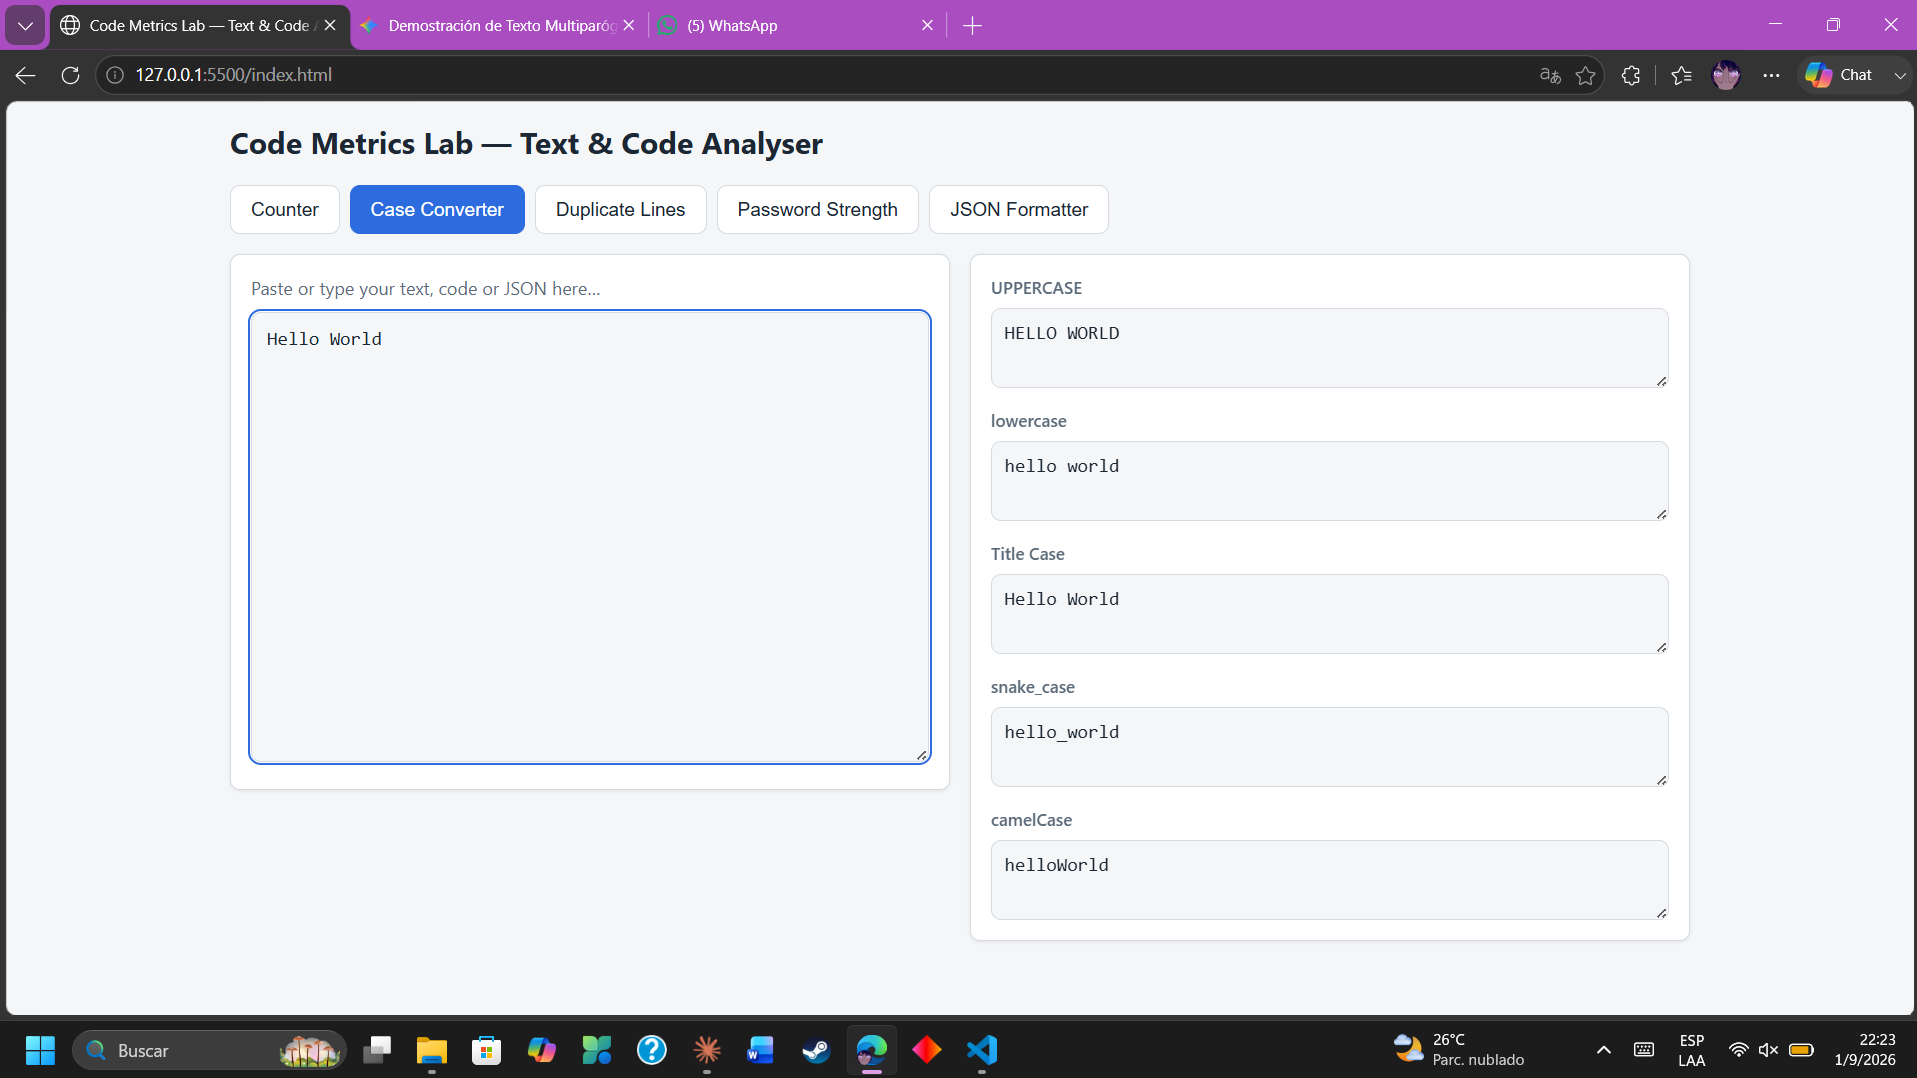
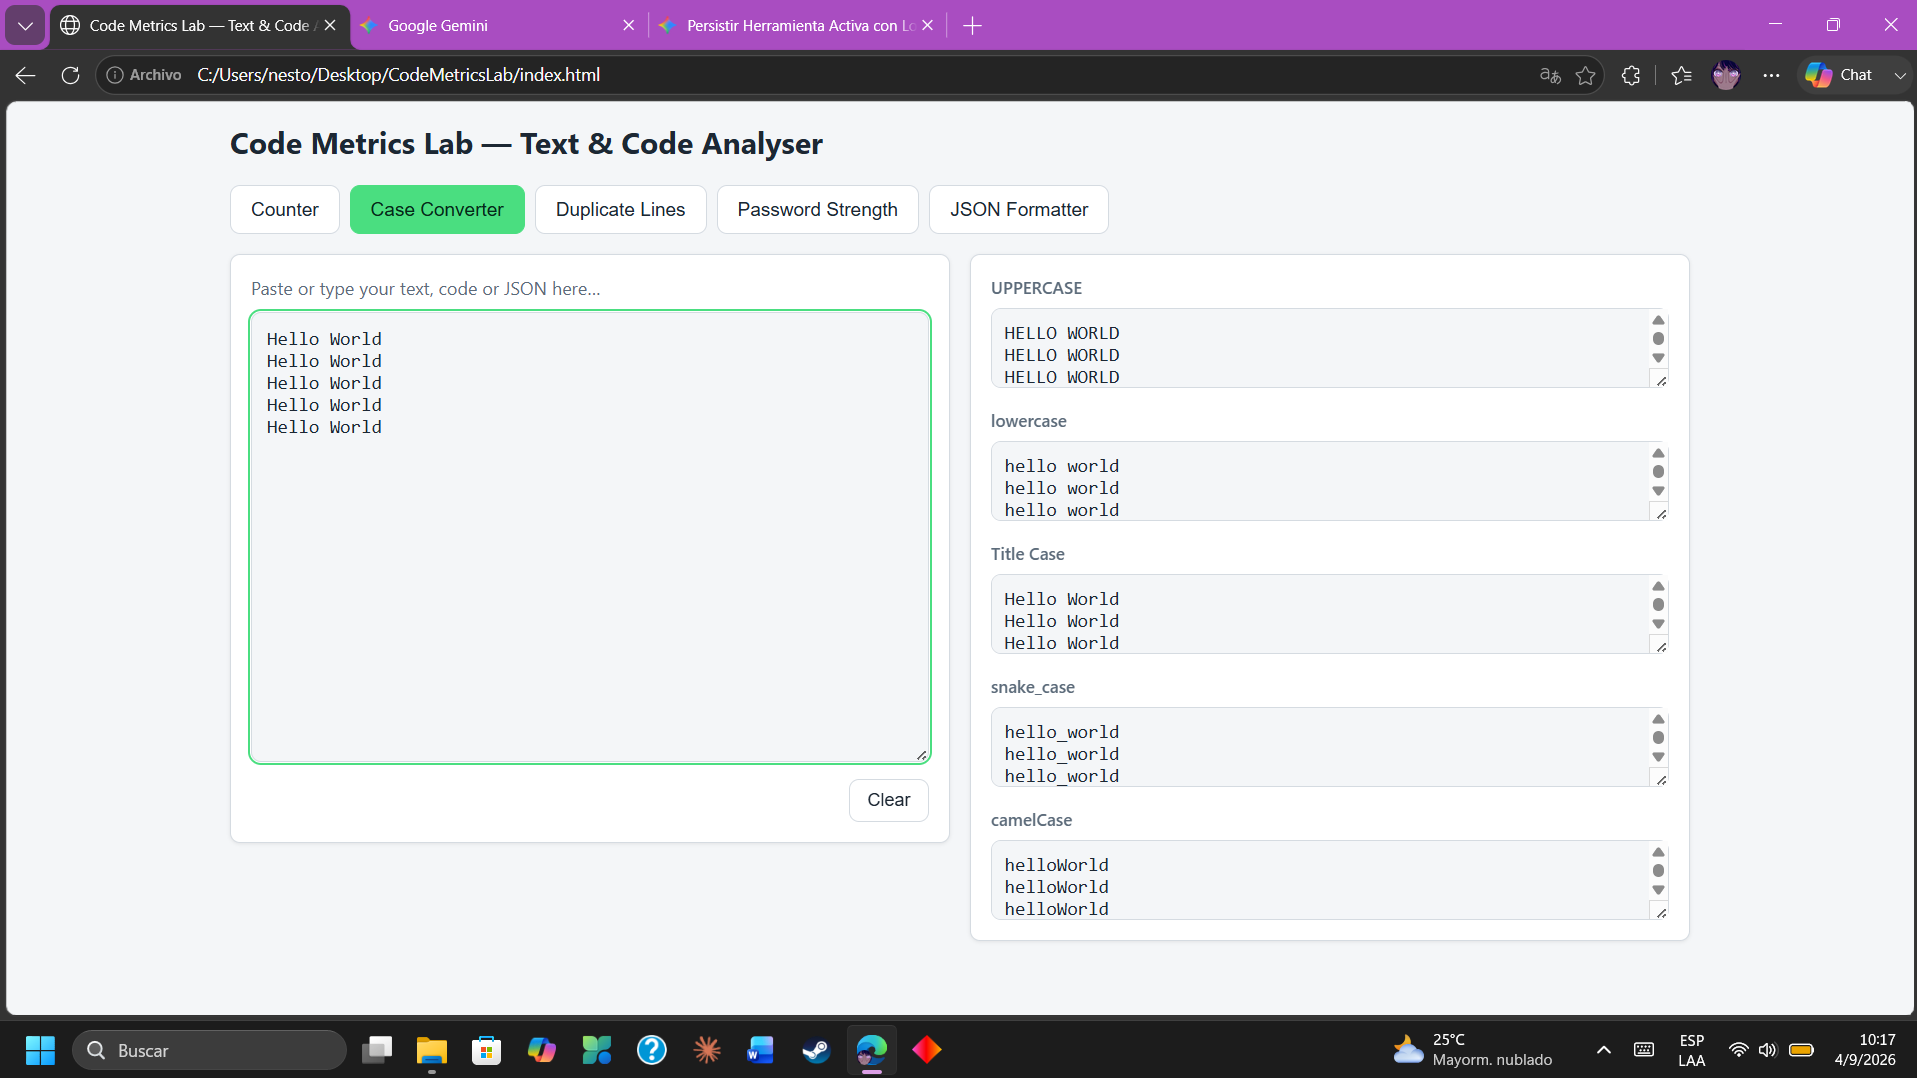
Add localStorage persistence and Clear button; update accent color, README and evidence screenshots

diff --git a/js/app.js b/js/app.js
@@ -7,14 +7,76 @@
 
 const { createApp } = Vue;
 
+// localStorage keys for the "keep the last text" stretch feature.
+const STORAGE_KEYS = {
+  sourceText: 'codeMetricsLab.sourceText',
+  activeTool: 'codeMetricsLab.activeTool'
+};
+
+// The tools a restored activeTool value is allowed to be, so corrupt or
+// stale storage can never leave the app on an unknown tool.
+const VALID_TOOLS = ['counter', 'case', 'duplicates', 'password', 'json'];
+
+// WHY: storage can be disabled (private mode), blocked, or full. Every access
+// is wrapped so a failure only skips persistence — the app keeps working from
+// memory and the in-memory data is never lost because a save/read failed.
+function safeStorageRead(key) {
+  try {
+    return localStorage.getItem(key);
+  } catch (error) {
+    console.warn('Code Metrics Lab: localStorage read skipped.', error);
+    return null;
+  }
+}
+
+function safeStorageWrite(key, value) {
+  try {
+    localStorage.setItem(key, value);
+  } catch (error) {
+    console.warn('Code Metrics Lab: localStorage write skipped.', error);
+  }
+}
+
+function safeStorageRemove(key) {
+  try {
+    localStorage.removeItem(key);
+  } catch (error) {
+    console.warn('Code Metrics Lab: localStorage remove skipped.', error);
+  }
+}
+
 createApp({
   data() {
+    // Restore from storage on load; fall back to defaults if nothing is
+    // saved or storage is unavailable.
+    const savedText = safeStorageRead(STORAGE_KEYS.sourceText);
+    const savedTool = safeStorageRead(STORAGE_KEYS.activeTool);
     return {
       // The single source of truth: everything derives from this in memory.
-      // No database — state lives only in the browser session.
-      sourceText: '',
-      activeTool: 'counter'
+      // localStorage only mirrors it; memory always wins.
+      sourceText: savedText !== null ? savedText : '',
+      activeTool: VALID_TOOLS.includes(savedTool) ? savedTool : 'counter',
+      // Holds the pending debounced-save timer id (not used for rendering).
+      saveTimer: null
     };
+  },
+  watch: {
+    // Debounce the text save by ~300ms so we don't write on every keystroke.
+    // An empty box removes the key instead of storing an empty string.
+    sourceText(value) {
+      clearTimeout(this.saveTimer);
+      this.saveTimer = setTimeout(() => {
+        if (value === '') {
+          safeStorageRemove(STORAGE_KEYS.sourceText);
+        } else {
+          safeStorageWrite(STORAGE_KEYS.sourceText, value);
+        }
+      }, 300);
+    },
+    // The active tool changes rarely, so persist it immediately.
+    activeTool(value) {
+      safeStorageWrite(STORAGE_KEYS.activeTool, value);
+    }
   },
   computed: {
     // WHY: several tools share this "is there anything to analyse?" test,
@@ -178,6 +240,14 @@ createApp({
     }
   },
   methods: {
+    // Empty the editor and drop the saved value. Cancelling the pending
+    // debounced save prevents a stray write from re-storing the old text.
+    clearText() {
+      clearTimeout(this.saveTimer);
+      this.sourceText = '';
+      safeStorageRemove(STORAGE_KEYS.sourceText);
+    },
+
     // WHY: snake_case and camelCase share the exact same tokenisation —
     // trim, split on any run of non-alphanumeric characters (whitespace or
     // punctuation), drop empties, and lowercase each piece.

diff --git a/css/styles.css b/css/styles.css
@@ -1,18 +1,11 @@
-/*
- * Code Metrics Lab — Text & Code Analyser
- * Team: Nestor Deodanes · Samuel Mendoza · Marcela Mata · Daniela Rodriguez
- * Purpose: Layout and palette. Colours live in CSS variables so a future
- *          theme switch only needs to override this single block.
- */
-
 :root {
   --color-bg: #f4f6f8;
   --color-surface: #ffffff;
   --color-border: #d5dbe1;
   --color-text: #1c2733;
   --color-muted: #5c6b7a;
-  --color-accent: #2d6cdf;
-  --color-accent-text: #ffffff;
+  --color-accent: #4ADE80; /* project accent (Day 2 spec): neon green */
+  --color-accent-text: #06281a; /* dark green for legible text on neon green */
   --radius: 8px;
   --gap: 16px;
   --shadow: 0 1px 3px rgba(0, 0, 0, 0.08);
@@ -117,6 +110,27 @@ body {
   outline-offset: 1px;
 }
 
+.editor-actions {
+  display: flex;
+  justify-content: flex-end;
+  margin-top: 8px;
+}
+
+.clear-button {
+  padding: 8px 14px;
+  border: 1px solid var(--color-border);
+  border-radius: var(--radius);
+  background: var(--color-surface);
+  color: var(--color-text);
+  font-size: 0.9rem;
+  cursor: pointer;
+  transition: border-color 0.15s ease;
+}
+
+.clear-button:hover {
+  border-color: var(--color-accent);
+}
+
 .results {
   min-height: 360px;
 }
@@ -209,9 +223,9 @@ body {
 
 /* Password strength meter */
 :root {
-  --color-weak: #d64545;
+  --color-weak: #FB7185; /* warning/error stays reddish, never green */
   --color-medium: #d99e2b;
-  --color-strong: #2e9e5b;
+  --color-strong: var(--color-accent); /* success shares the green accent */
 }
 
 .strength-header {

diff --git a/index.html b/index.html
@@ -1,8 +1,4 @@
-<!--
-  Code Metrics Lab — Text & Code Analyser
-  Team: Nestor Deodanes · Samuel Mendoza · Marcela Mata · Daniela Rodriguez
-  Purpose: Application shell — markup, CDN/local Vue loading, and mount point.
--->
+
 <!DOCTYPE html>
 <html lang="en">
 <head>
@@ -68,6 +64,14 @@
           v-model="sourceText"
           spellcheck="false"
         ></textarea>
+        <div class="editor-actions">
+          <button
+            id="btnClearText"
+            class="clear-button"
+            type="button"
+            @click="clearText"
+          >Clear</button>
+        </div>
       </section>
 
       <!-- c) Results panel -->

diff --git a/README.md b/README.md
@@ -1,17 +1,14 @@
-<!--
-  Code Metrics Lab — Text & Code Analyser
-  Team: Nestor Deodanes · Samuel Mendoza · Marcela Mata · Daniela Rodriguez
-  Purpose: Project overview, requirements, and run instructions.
--->
-
 # Code Metrics Lab — Text & Code Analyser
 
 A single-page text and code analyser built with Vue 3 in CDN mode. It counts
 words, characters, lines and paragraphs, estimates reading time, converts case,
 finds duplicate lines, rates password strength, and formats and validates JSON —
-all updating live as you type. **No database: all data lives in memory in the
-browser.** Nothing is sent to a server and nothing is persisted, so refreshing
-the page starts with a clean slate.
+all updating live as you type. **No database — all data lives in the browser.**
+The current text and the active tool are saved to your browser's localStorage and
+restored automatically when you reload the page, so your work is not lost on
+refresh. A **Clear** button empties the text and removes the saved value whenever
+you want a clean slate. Nothing is ever sent to a server, and if the browser has
+storage disabled the app still works — it simply does not remember between visits.
 
 ## Requirements
 
@@ -35,9 +32,11 @@ Screenshots of the running application live in the [`Evidence/`](Evidence) folde
 - [Live counters](Evidence/EV-02-live-counters.png)
 - [Case converter](Evidence/EV-03-case-converter.png)
 - [Duplicate lines](Evidence/EV-04-duplicate-lines.png)
+- [Password strength meter](Evidence/EV-05-password-meter.png)
+- [JSON formatter — valid input](Evidence/EV-07-json-valid.png)
+- [JSON formatter — invalid input](Evidence/EV-07-json-error.png)
 
 ## Author
 
 Nestor Deodanes · Samuel Mendoza · Marcela Mata · Daniela Rodriguez
 
-INDEL, BTV Software Development, Module 3.6
